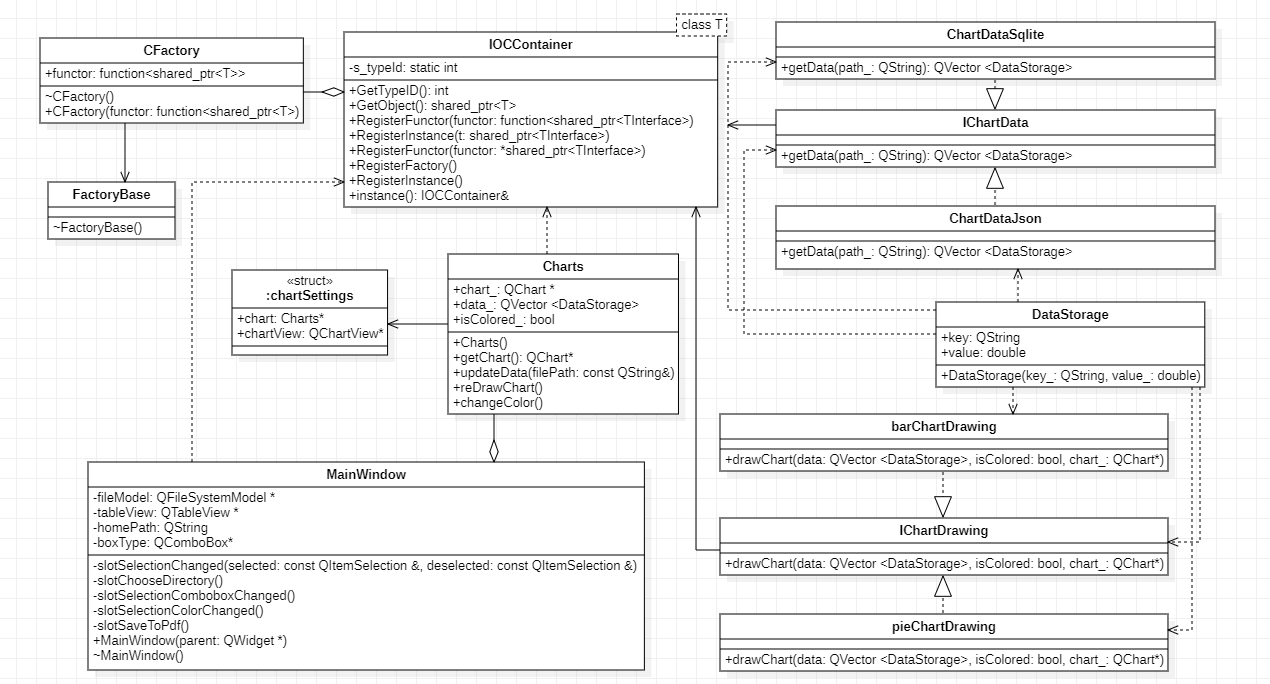
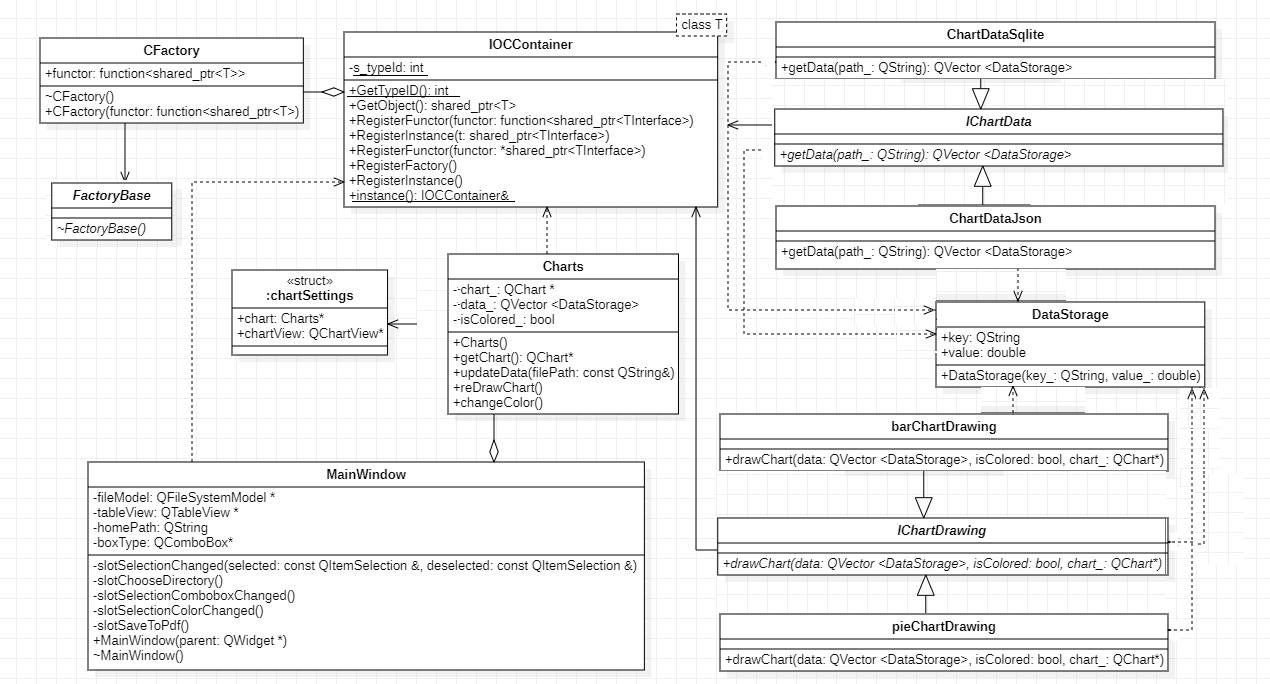
uml и комментарии

diff --git a/ioccontainer.h b/ioccontainer.h
@@ -21,11 +21,48 @@ class IOCContainer
         static int typeId = s_typeId++;
         return typeId;
     }//метод, позволяющий обратиться к экземпляру локальной переменной для указанного типа
-    class FactoryBase//фабрика, дает возможность хранить объект, способ создания которого неизвестен
+    class FactoryBase//абстрактная фабрика, дает возможность хранить объект, способ создания которого неизвестен
     {
     public:
         virtual ~FactoryBase() {}
     };
+  /* Фабричный метод (также известен как Виртуальный конструктор, Factory
+ Method) — это порождающий паттерн проектирования, который определяет
+ общий интерфейс для создания объектов в суперклассе, позволяя
+ подклассам изменять тип создаваемых объектов.
+ Паттерн применяется когда
+ 1. Когда заранее неизвестно, объекты каких типов необходимо
+ создавать;
+ 2. Когда система должна быть независимой от процесса создания
+ новых объектов и расширяемой: в нее можно легко вводить новые
+ классы, объекты которых система должна создавать;
+ 3. Когда создание новых объектов необходимо делегировать из
+ базового класса классам наследникам;
+ Достоинства паттерна Factory Method
+ • Создает объекты разных типов, позволяя системе оставаться
+ независимой как от самого процесса создания, так и от типов
+ создаваемых объектов.
+ Недостатки паттерна Factory Method
+ • В случае классического варианта паттерна даже для
+ порождения единственного объекта необходимо создавать
+ соответствующую фабрику
+
+   *  Абстрактная фабрика представляет собой некоторый полиморфный базовый класс(AbstractFactory),
+ назначением которого является объявление интерфейсов фабричных методов(CreateProductA,
+ CreateProductB), служащих для создания продуктов всех основных типов (один фабричный метод на
+ каждый тип продукта).
+   *   Достоинства паттерна Abstract Factory
+     • Скрывает сам процесс порождения объектов, а также делает систему
+     независимой от типов создаваемых объектов, специфичных для различных
+     семейств или групп (пользователи оперируют этими объектами через
+     соответствующие абстрактные интерфейсы).
+     • Позволяет быстро настраивать систему на нужное семейство создаваемых
+     объектов.
+
+     Недостатки паттерна Abstract Factory
+     • Трудно добавлять новые типы создаваемых продуктов или заменять
+     существующие, так как интерфейс базового класса абстрактной фабрики
+     фиксирован.*/
     map<int, shared_ptr<FactoryBase>> factories;//используем map для хранения фабрик
     template<typename T>
     class CFactory : public FactoryBase//шаблонный класс, конкретная фабрика
@@ -77,7 +114,7 @@ class IOCContainer
         }));
 
     }
-    //фабрика, возвращает один экземпляр ообъекта для одного вызова
+    //фабрика, возвращает один экземпляр объекта для одного вызова
     template<typename TInterface, typename TConcrete, typename ...TArguments>
     void RegisterInstance()
     {

diff --git a/chart.cpp b/chart.cpp
@@ -13,10 +13,10 @@ void barChartDrawing::drawChart(QVector<DataStorage> data, bool isColored, QChar
         QString legendHeader (elem.key); // задаем легенду карты по времени добавления данных, полученному из базы данных
         QBarSet *set = new QBarSet(legendHeader); // передаем легенду
         if (!isColored) // цвет
-        {
+        {//чб
             set->setColor(QColor(j,j,j));
             j+=15;}
-        *set << elem.value; // добавляем значение в набор данных для столбчатой диаграммы
+        *set << elem.value; // добавляем значение в набор данных для столбчатой диаграммы]
         series->append(set); // добавлеяем набор в серию данных для столбчатой диаграммы
         i++;//переходим к следующему набору
     }
@@ -29,17 +29,20 @@ void barChartDrawing::drawChart(QVector<DataStorage> data, bool isColored, QChar
 void pieChartDrawing::drawChart(QVector<DataStorage> data, bool isColored, QChart* chart_)
 {
     chart_->setTitle("Pie chart"); // задаем заголовок
-    QPieSeries *series = new QPieSeries{chart_}; //серии данных для круговой диаграммы
+    QPieSeries *series = new QPieSeries(chart_); //серии данных для круговой диаграммы
     int i = 0; //счетчик количества считываемых данных из базы
     int j = 0; //чб/цвет
     foreach (DataStorage elem, data) // для каждого элемента
     {
         QString legendHeader (elem.key); // задаем легенду карты по времени добавления данных, полученному из базы данных
-        series->append(legendHeader, elem.value); // добавляем в серию запись из легенды и соответствующие данные
+        QPieSlice *slice = new QPieSlice();
+        slice->setLabel(elem.key);
         if (!isColored) // цвет
-        {
-            series->slices().at(i)->setColor(QColor(j,j,j));
+        {//чб
+            slice->setBrush(QColor(j,j,j));
             j+=15;}
+        slice->setValue(elem.value);
+        series->append(slice);
         i++;//переходим к следующему набору
     }
     chart_->removeAllSeries(); // очищаем предыдущие серии

diff --git a/chart.h b/chart.h
@@ -27,14 +27,14 @@ class barChartDrawing : public IChartDrawing
 {
 public:
     //функция, строящая новую столбчатую диаграмму QChart* chart_ по данным QVector <DataStorage> data
-    virtual void drawChart(QVector <DataStorage> data, bool isColored = true, QChart* chart_= new QChart()); // по умолчанию - цветная
+    void drawChart(QVector <DataStorage> data, bool isColored = true, QChart* chart_= new QChart()); // по умолчанию - цветная
 };
 //реализация интерфейса: круговая диаграмма
 class pieChartDrawing : public IChartDrawing//круговая
 {
 public:
     //функция, строящая новую круговую диаграмму QChart* chart_ по данным QVector <DataStorage> data
-    virtual void drawChart(QVector <DataStorage> data, bool isColored = true, QChart* chart_= new QChart()); //  по умолчанию - цветная
+    void drawChart(QVector <DataStorage> data, bool isColored = true, QChart* chart_= new QChart()); //  по умолчанию - цветная
 };
 class Charts//работа с диаграммами
 {

diff --git a/mainwindow.cpp b/mainwindow.cpp
@@ -49,7 +49,7 @@ MainWindow::MainWindow(QWidget *parent)
     : QWidget(parent)
 {
     QString homePath = QDir::homePath();//путь
-    setGeometry(200, 200, 800, 800);//размер главного окна
+    setGeometry(400, 100, 800, 600);//размер главного окна
     setWindowTitle("PrintChart");
 
     // определяем файловую систему:
